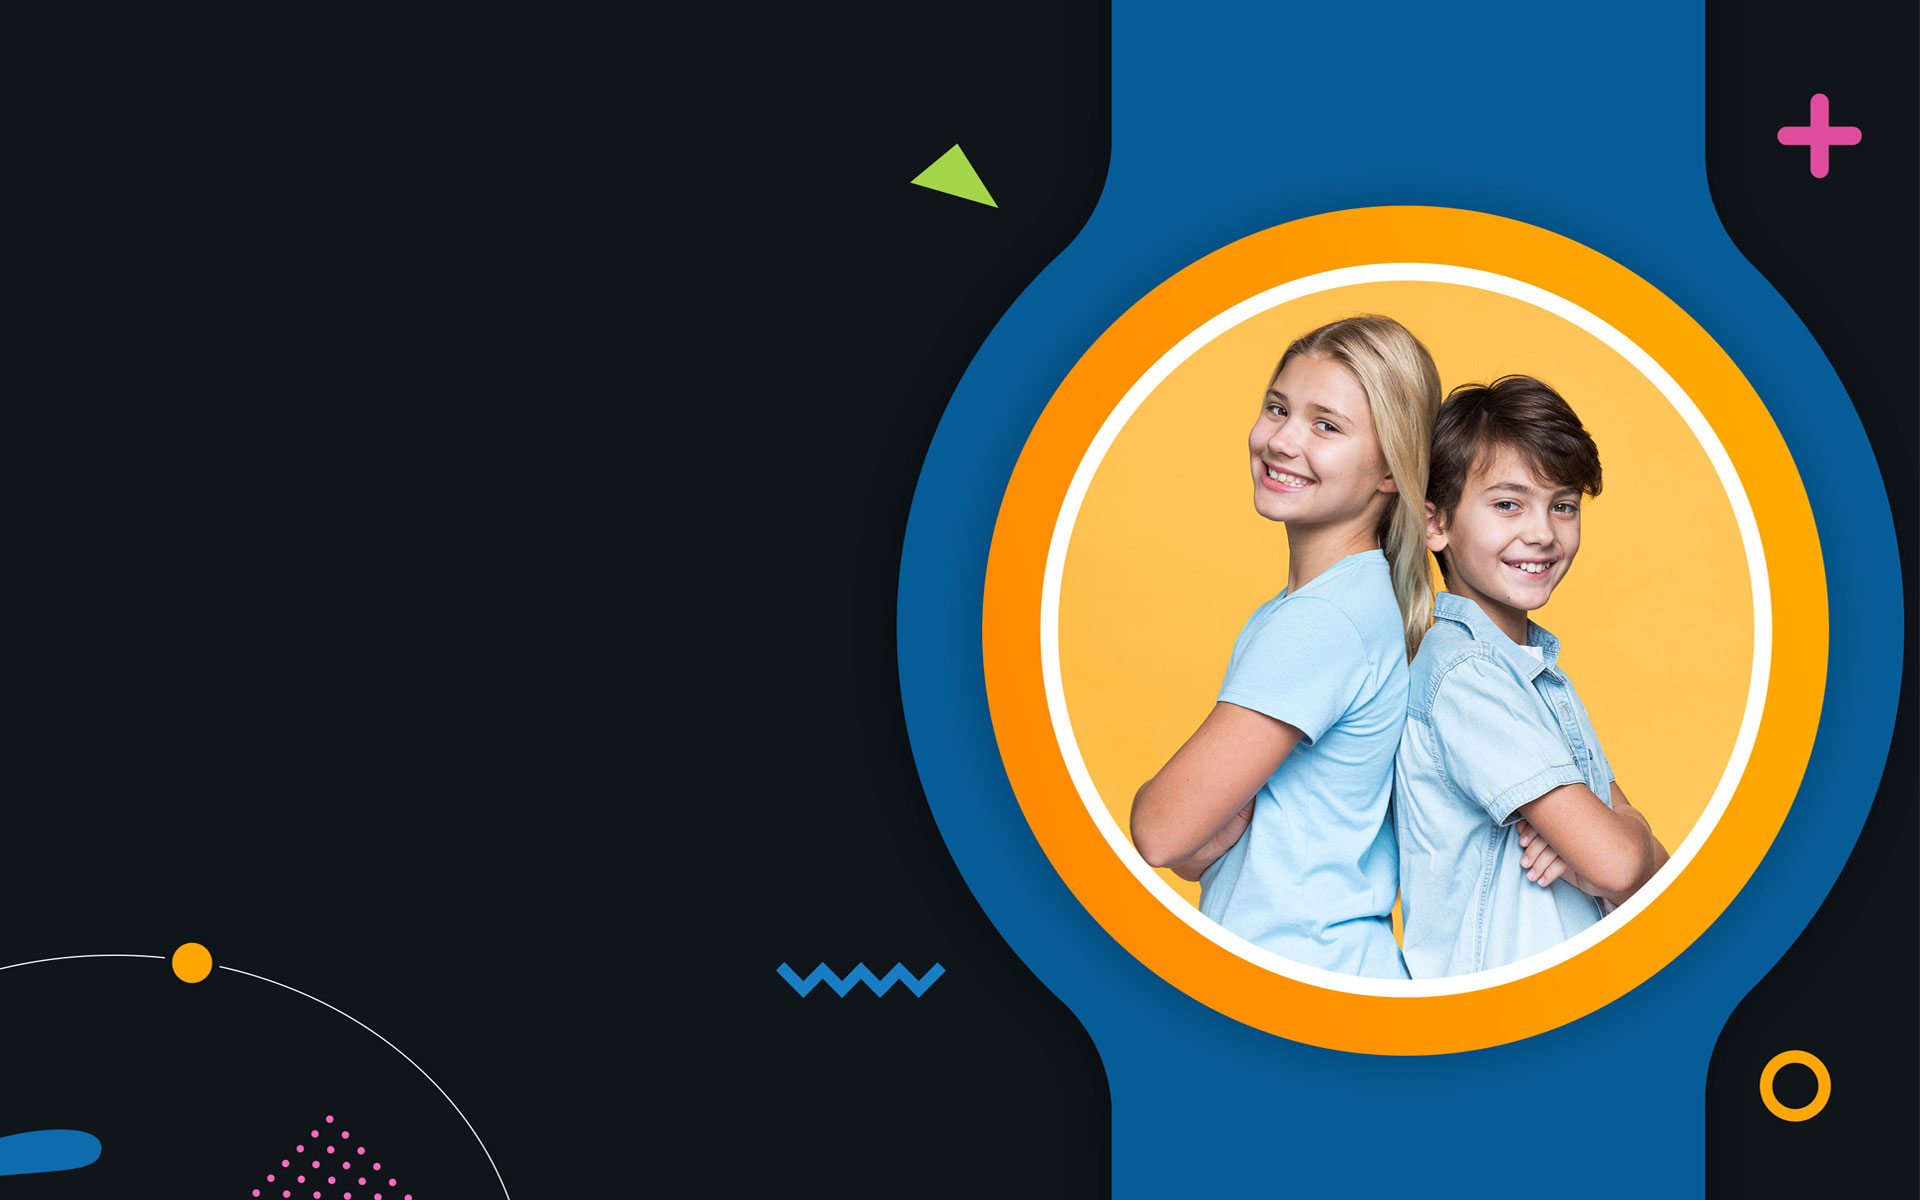
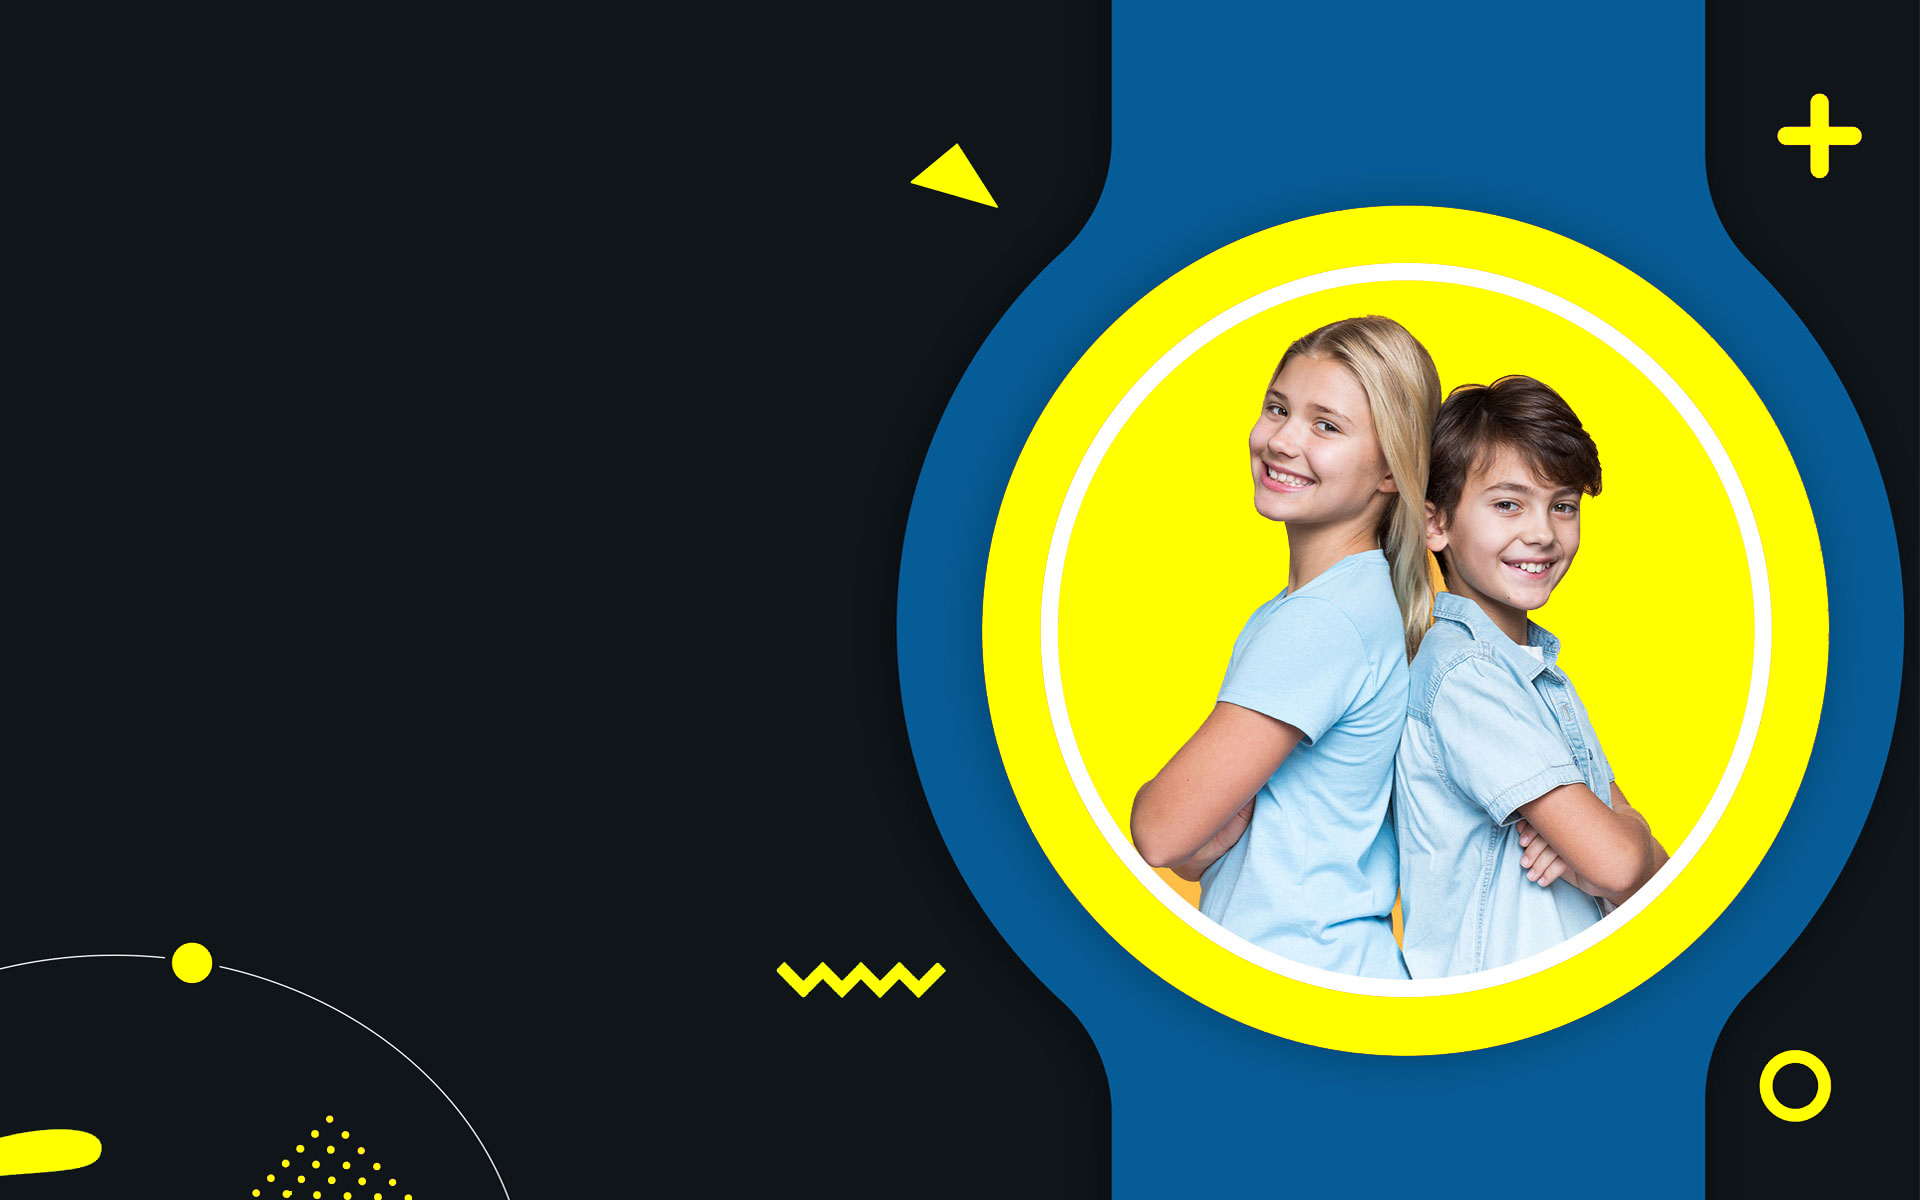
tens

diff --git a/template/index.html b/template/index.html
@@ -13,7 +13,7 @@
 		
 		<!-- SITE TITLE -->
 		<title>Smart Hub</title>
-		<!-- Favicon -->
+		<!-- asd -->
 		<link rel="shortcut icon" href="/static/img/logo.png" type="image/x-icon">
 		
 		<!-- Latest Bootstrap min CSS -->
@@ -71,14 +71,14 @@
 					<div class="row align-items-center">
 						<div class="col-lg-12">
 							<div class="d-flex justify-content-between">
-								<p><i class="fas fa-phone-volume"></i><a href="#">+7(700)-414-0808</a></p>
+								<p><i class="fas fa-phone-volume" style="color:black"></i><a href="#" style="color:black">+7(700)-414-0808</a></p>
 <!--								<p><i class="far fa-envelope-open"></i><a href="#">example@gmail.com</a></p>-->
 <!--								<p><i class="fas fa-clock"></i><a href="#">Mon-Fri: 8:00am-5:00pm</a></p>-->
-								<ul class="atf_header-social">
-									<li><a href="#"><i class="fab fa-facebook-f"></i></a></li>
-									<li><a href="#"><i class="fab fa-instagram"></i></a></li>
-									<li><a href="#"><i class="fab fa-whatsapp"></i></a></li>
-									<li><a href="#"><i class="fab fa-telegram"></i></a></li>
+								<ul class="atf_header-social" >
+									<li><a href="#"><i class="fab fa-facebook-f" style="color:black"></i></a></li>
+									<li><a href="#"><i class="fab fa-instagram" style="color:black"></i></a></li>
+									<li><a href="#"><i class="fab fa-whatsapp" style="color:black"></i></a></li>
+									<li><a href="#"><i class="fab fa-telegram" style="color:black"></i></a></li>
 								</ul>
 							 </div>
 
@@ -121,7 +121,7 @@
 										</ul>
 									  </li>-->
 									  <li><a href="#home">Главная</a></li>
-									  <li><a href="#about">О нас</a></li>
+									  <li><a href="#feature">О нас</a></li>
 <!--									  <li><a href="#course">Курсы</a></li>-->
 									  <li><a href="#portfolio">Галерии</a></li>
 									  <li><a href="#team">Учителя</a></li>
@@ -147,7 +147,7 @@
 												</div>
 											</div>
 										</li>-->
-									  <li class="atf-menu-btn"><a class="atf-themes-btn d-none d-xl-block" href="#contact">Оставьте заявку</a></li>
+									  <li class="atf-menu-btn"><a class="atf-themes-btn d-none d-xl-block" style="color:black" href="#contact">Оставьте заявку</a></li>
 									</ul>
 								</nav>
 								
@@ -166,13 +166,13 @@
 					<div class="row justify-content-left">
 						 <!--LEFT COL-->
 						<div class="col-xl-7 col-lg-6 col-12 atf-single-details text-left">
-<!--							<h5 class="text-white text-capitalize mb-4"><img class="me-2" src="/static/img/favicon.png" alt="favicon"> We will teach you How to Learn </h5>-->
+<!--							<h5 class="text-white text-capitalize mb-4"><img class="me-2" src="/static/img/asd.png" alt="asd"> We will teach you How to Learn </h5>-->
 							<h2 class="text-uppercase title-color">From Zero to Hero<br> Next Hero is  <span>YOU</span></h2>
-							<p class="f-17 mt-4 text-white">A Theme for Kids , Learning & Course etc.</p>
+							<p class="f-17 mt-4 text-white">Education center</p>
 							<!-- Main-btn -->
 							<div class="atf-main-btn atf-home-btn mt-5"> 
-								<a href="#about" class="atf-themes-btn">Discover More<i class="fa fa-angle-right"></i></a>
-								<a href="#contact" class="atf-themes-btn btn-2 ms-2">Contact Us <i class="fa fa-angle-right"></i></a>
+								<a href="#about"  class="atf-themes-btn">Подробнее<i class="fa fa-angle-right"></i></a>
+								<a href="#contact" class="atf-themes-btn btn-2 ms-2">Связаться с нами<i class="fa fa-angle-right"></i></a>
 							</div>
 						</div><!--- END COL -->
 					</div><!--- END ROW -->
@@ -182,13 +182,13 @@
 			
 			
 			<!-- FEATURE SECTION START-->
-			<section id="feature" class="atf-feature-area bg-light atf-section-padding">
+			<section id="feature" style="background: black;" class="atf-feature-area  atf-section-padding">
 				<div class="container">
 					<div class="row justify-content-center">
 						<div class="col-lg-12">
 							<div class="atf-section-title title-color wow zoomIn" data-wow-duration="1s" data-wow-delay="0.2s" data-wow-offset="0">
 								<h3 class=" text-center">О компании <span>Smart hub</span></h3>
-								<div class="title-divider mt-3"> <img src="/static/img/favicon.png" class="img-fluid" alt="divider"></div>
+								<div class="title-divider mt-3"> <img src="/static/img/asd.png" class="img-fluid" alt="divider"></div>
 								<p class="f-15 mt-3">Учебный центр <span>Smart hub</span> рад приветствовать всех, кто ищет качественное образование. </p>
 								<p class="f-15 mt-3"><span>Наша миссия</span> - предоставлять студентам высококлассные учебные программы, которые помогут им развиваться и успешно достигать их карьерных и личных целей.</p>
 								<p class="f-15 mt-3"><span>Наша цель </span> - делать образование доступным и практичным для всех.</p>
@@ -259,15 +259,15 @@
 				</div><!--- END CONTAINER -->
 			</section>
 			<!-- FEATURE SECTION END-->
-				
+
 			<!-- START ABOUT -->
-			<section id="about" class="atf-section-padding">
+			<section id="about" style="background:#0e1316;" class="atf-section-padding">
 				<div class="container">
 					<div class="row justify-content-center">
 						<div class="col-lg-6">
 							<div class="atf-section-title title-color text-center wow zoomIn" data-wow-duration="1s" data-wow-delay="0.2s" data-wow-offset="0">
-<!--								<h3>О компании <span>Smart hub</span></h3>-->
-								<div class="title-divider mt-3"> <img src="/static/img/favicon.png" class="img-fluid mx-auto d-block" alt="divider"></div>
+<!--								<h3> <span></span></h3>-->
+								<div class="title-divider mt-3"> <img src="/static/img/asd.png"  class="img-fluid mx-auto d-block" alt="divider"></div>
 							</div>
 						</div><!--- END COL -->
 					</div>
@@ -423,7 +423,7 @@
 <!--						<div class="col-lg-6">-->
 <!--							<div class="atf-section-title Activities text-center wow zoomIn" data-wow-duration="1s" data-wow-delay="0.2s" data-wow-offset="0">-->
 <!--								<h3>Our Some <span>Facilities</span></h3>-->
-<!--								<div class="title-divider mt-3"><img src="/static/img/favicon.png" class="img-fluid" alt="divider"></div>-->
+<!--								<div class="title-divider mt-3"><img src="/static/img/asd.png" class="img-fluid" alt="divider"></div>-->
 <!--								<p class="f-15 mt-3">Many desktop publishing packages and web page editors now use Lorem Ipsum as their default model text</p>-->
 <!--							</div>-->
 <!--						</div>&lt;!&ndash;- END COL &ndash;&gt;-->
@@ -503,7 +503,7 @@
 <!--						<div class="col-lg-6">-->
 <!--							<div class="atf-section-title title-color text-center wow zoomIn" data-wow-duration="1s" data-wow-delay="0.2s" data-wow-offset="0">-->
 <!--								<h3>Our Popular <span>Course</span></h3>-->
-<!--								<div class="title-divider mt-3"><img src="/static/img/favicon.png" class="img-fluid" alt="divider"></div>-->
+<!--								<div class="title-divider mt-3"><img src="/static/img/asd.png" class="img-fluid" alt="divider"></div>-->
 <!--								<p class="f-15 mt-3">Many desktop publishing packages and web page editors now use Lorem Ipsum as their default model text</p>-->
 <!--							</div>-->
 <!--						</div>&lt;!&ndash;- END COL &ndash;&gt;-->
@@ -608,13 +608,13 @@
 		   
 
 			<!-- START PORTFOLIO -->
-			<section id="portfolio" class="atf-portfolio-area atf-section-padding">
+			<section id="portfolio" style="background:black" class="atf-portfolio-area atf-section-padding">
 				<div class="container-fluid">
 					<div class="row justify-content-center">
 						<div class="col-lg-6">
 							<div class="atf-section-title title-color text-center wow zoomIn" data-wow-duration="1s" data-wow-delay="0.2s" data-wow-offset="0">
 								<h3>Наше <span> Портфолио</span> </h3>
-								<div class="title-divider mt-3"> <img src="/static/img/favicon.png" class="img-fluid" alt="divider"></div>
+								<div class="title-divider mt-3"> <img src="/static/img/asd.png" class="img-fluid" alt="divider"></div>
 <!--								<p class="f-15 mt-3">Many desktop publishing packages and web page editors now use Lorem Ipsum as their default model text</p>-->
 							</div>
 						</div><!--- END COL -->
@@ -647,13 +647,13 @@
 			
 			
 			<!-- START TESTIMONIAL DESIGN -->
-			<section id="testimonial" class="bg-light atf-testimonial-area atf-section-padding">
+			<section id="testimonial"  style="background:#0e1316;" class=" atf-testimonial-area atf-section-padding">
 				<div class="container">
 					<div class="row justify-content-center">
 						<div class="col-lg-6">
 							<div class="atf-section-title title-color text-center wow zoomIn" data-wow-duration="1s" data-wow-delay="0.2s" data-wow-offset="0">
 								<h3>Отзывы наших  <span>клиентов</span> </h3>
-								<div class="title-divider mt-3"> <img src="/static/img/favicon.png" class="img-fluid" alt="divider"></div>
+								<div class="title-divider mt-3"> <img src="/static/img/asd.png" class="img-fluid" alt="divider"></div>
 <!--								<p class="f-15 mt-3 ">Many desktop publishing packages and web page editors now use Lorem Ipsum as their default model text</p>-->
 							</div>
 						</div><!--- END COL -->
@@ -672,7 +672,7 @@
 									<p class="description" style="padding-top:30px;height:210px">
 										"{{ rev.description }}"
 									</p>
-									<h5 class="testimonial-title">{{ rev.author }}</h5>
+									<a href="{{ rev.insta_link }}"><h5 class="testimonial-title">{{ rev.author }}</h5></a>
 <!--									<span class="post">Senior Teacher</span>-->
 									<ul class="testimonial-rating">
 										<li class="fa fa-star"></li>
@@ -693,13 +693,13 @@
 			<!-- END TESTIMONIAL DESIGN -->
 
 			<!-- START OUR TEAM -->
-			<section id="team" class="atf-team-area atf-section-padding">
+			<section id="team"  style="background:black"  class="atf-team-area atf-section-padding">
 				<div class="container">	
 					<div class="row justify-content-center">
 						<div class="col-lg-6">
 							<div class="atf-section-title title-color text-center wow zoomIn" data-wow-duration="1s" data-wow-delay="0.2s" data-wow-offset="0">
 								<h3>Наши <span>Учителя</span> </h3>
-								<div class="title-divider mt-3"> <img src="/static/img/favicon.png" class="img-fluid" alt="divider"></div>
+								<div class="title-divider mt-3"> <img src="/static/img/asd.png" class="img-fluid" alt="divider"></div>
 <!--								<p class="f-15 mt-3">Many desktop publishing packages and web page editors now use Lorem Ipsum as their default model text</p>-->
 							</div>
 						</div><!--- END COL -->
@@ -708,7 +708,7 @@
 						
 					<div class="row mt-5 pt-4">
 						{% for teach in teachers %}
-						<div class="col-lg-3 wow fadeIn" data-wow-duration="1s" data-wow-delay="0.2s" data-wow-offset="0">
+						<div class="col-lg-3 wow fadeIn" style="margin-bottom:25px" data-wow-duration="1s" data-wow-delay="0.2s" data-wow-offset="0">
 							<div class="my-team">
 								<div class="pic">
 									<img class="img-fluid" src="/media/{{ teach.photo }}" alt="team">
@@ -770,7 +770,7 @@
 <!--						<div class="col-lg-6">-->
 <!--							<div class="atf-section-title title-color text-center wow zoomIn" data-wow-duration="1s" data-wow-delay="0.2s" data-wow-offset="0">-->
 <!--								<h3>Our <span>Recent</span>  News</h3>-->
-<!--								<div class="title-divider mt-3"> <img src="/static/img/favicon.png" class="img-fluid" alt="divider"></div>-->
+<!--								<div class="title-divider mt-3"> <img src="/static/img/asd.png" class="img-fluid" alt="divider"></div>-->
 <!--								<p class="f-15 mt-3 ">Many desktop publishing packages and web page editors now use Lorem Ipsum as their default model text</p>-->
 <!--							</div>-->
 <!--						</div>&lt;!&ndash;- END COL &ndash;&gt;-->
@@ -901,7 +901,7 @@
 			<!-- END NEWSLETTER -->
 		   
 			<!-- START CONTACT -->
-			<section id="contact" class="atf-section-padding">
+			<section id="contact"  style="background:#0e1316;" class="atf-section-padding">
 				<div class="container">
 					<div class="row">
 						<div class="col-lg-6">
@@ -925,7 +925,7 @@
 											</div>
 											<div class="col-lg-12">
 												<div class="atf-contact-btn text-left">
-													<button type="submit"   class="atf-themes-btn" >Отправить</button>
+													<button type="submit" style="color:black;"   class="atf-themes-btn" >Отправить</button>
 												</div>
 											</div>
 										</div>
@@ -961,7 +961,7 @@
 
 								<div class="atf-contact-details ">
 								<div class="atf-footer-social-icon">
-									<a href="#" class="icon"> <i class="fab fa-facebook"></i> </a>
+									<a href="#" class="icon"> <i class="fab fa-facebook" ></i> </a>
 									<a href="#" class="icon"> <i class="fab fa-instagram"></i> </a>
 									<a href="#" class="icon"> <i class="fab fa-whatsapp"></i> </a>
 									<a href="#" class="icon"> <i class="fab fa-telegram"></i> </a>
@@ -1050,7 +1050,7 @@
 			
 
 			<!-- FOOTER SECTION START-->
-			<footer class="atf-footer-area">
+			<footer class="atf-footer-area"  style="background:black" >
 <!--				<div class="container">-->
 <!--					<div class="row atf-section-padding">-->
 <!--						<div class="col-lg-4 atf-footer-link wow fadeIn" data-wow-duration="1s" data-wow-delay="0.2s" data-wow-offset="0">-->
@@ -1107,7 +1107,7 @@
 				<div class="row">
 					<div class="col-lg-12">
 						<div class="atf-footer-boottom text-center wow fadeIn" data-wow-duration="1s" data-wow-delay="0.3s" data-wow-offset="0">
-							<p>&copy;2023. Designed <i class="fa fa-heart ms-1 me-1"></i> by <a href="">Umarbek</a> </p>
+							<p>&copy;2023. Designed <i class="fa fa-heart ms-1 me-1"></i> by <a href="https://www.instagram.com/ithub.kz/">Ithub</a> </p>
 						</div><!--- END COL -->
 					</div><!--- END ROW -->
 				</div>

diff --git a/static/css/style.css b/static/css/style.css
@@ -422,7 +422,7 @@ button, input, textarea:focus {
 	height: 50px;
 	background: var(--thm-color);
 	line-height: 50px;
-	color: var(--thm-white);
+	color: black;
 	border-radius: 50%;
 }
 .atf-scrollup-icon:hover {
@@ -454,11 +454,12 @@ button, input, textarea:focus {
 	text-transform: capitalize;
 	position: relative;
 	transform: translateY(0px);
-	border: 2px solid var(--thm-color);
+	border: 2px solid yellow;
 }
 .atf-themes-btn:hover{
-	background: transparent;
+	background: white;
 	color: var(--thm-black);
+
 }
 .btn-2{
 	background: transparent ! important;
@@ -475,9 +476,9 @@ button, input, textarea:focus {
 	transform: translateX(8px);
 }
 .atf-home-btn .atf-themes-btn{
-	background: var(--thm-white);
+	background: yellow;
 	color: var(--thm-black);
-	border:2px solid var(--thm-white) ! important;
+	border:2px solid yellow ! important;
 }
 .atf-home-btn .atf-themes-btn:hover{
 	background: transparent;
@@ -1952,7 +1953,7 @@ button, input, textarea:focus {
 	width: 45px;
 	height: 45px;
 	line-height: 45px;
-	color: var(--thm-white);
+	color: black;
 	text-align: center;
 	margin: 8px 0 25px;
 	border-radius: 5%;
@@ -2036,7 +2037,6 @@ button, input, textarea:focus {
 	height: 40px;
 	line-height: 40px;
 	border-radius: 20px;
-	color: var(--thm-white);
 	background: var(--thm-color);
 	text-align: center;
 	background: var(--thm-color);

diff --git a/template/index1.html b/template/index1.html
@@ -74,7 +74,7 @@
 					<div class="row align-items-center">
 						<div class="col-lg-7">
 							<div class="atf_header_top_left">                     
-								<p><i class="fas fa-phone-volume"></i><a href="#">+451236981</a></p>
+								<p><i class="fas fa-phone-volume" style="color:black"></i><a href="#" style="color:black">+451236981</a></p>
 								<p><i class="far fa-envelope-open"></i><a href="#">example@gmail.com</a></p>
 								<p><i class="fas fa-clock"></i><a href="#">Mon-Fri: 8:00am-5:00pm</a></p>
 								

diff --git a/main/models.py b/main/models.py
@@ -29,6 +29,7 @@ class Gallery(models.Model):
 class Review(models.Model):
     author = models.CharField(max_length=100)
     description = models.TextField(max_length=500, blank=True)
+    insta_link = models.TextField(max_length=500, blank=True)
     status = models.BooleanField(default=True, blank=True)
 
     def __str__(self):
